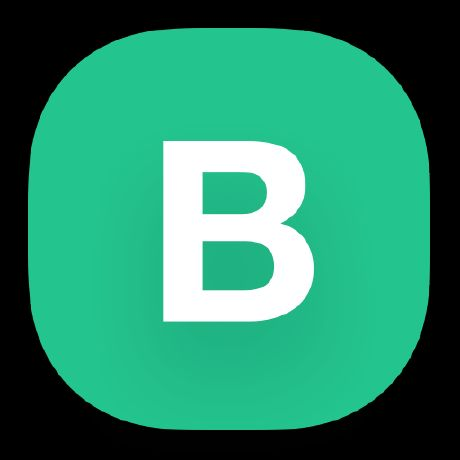
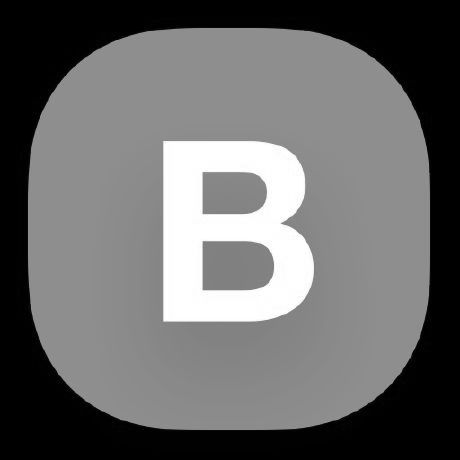
Agregado quien soy yo

diff --git a/index.html b/index.html
@@ -192,11 +192,14 @@
                 height="200"
                 loading="lazy"
               />
-              <p><strong>¿Quien es esta persona?</strong></p>
+              <p><strong>Me presento:</strong></p>
               <p>
-                Ingeniero Senior trabajando como desarrollador junior. <br />
-                Mentalidad creativa y analítica. Acostumbrado a trabajar <br />
-                en un ambiente multi-cultural y con edades diversas.
+                Ingeniero Senior trabajando como desarrollador Junior. <br />
+                Mentalidad creativa y analítica. Deseando trabajar <br />
+                en un ambiente multi-cultural y de diversas edades. <br>
+                Creando proyectos en Angular, JS y MDB. <br>
+                Estudiando - Practicando - Estudiando... <br>
+                Habitante de CABA - Argentina.
               </p>
 
               <!-- Linkedin -->
@@ -225,16 +228,16 @@
               <p><strong>Experiencia Proyectos (3+ año)</strong></p>
               <div class="row">
                 <div class="col-md-4 mb-4">
-                  <img src="img/C.jpg"
-                  class="rounded-circle m-2"
+                  <img src="img/c-logo-black-and-white-1.jpg"
+                  class="m-2"
                   height="50"
                   alt="C language"
                   loading="lazy"></img>
                   <p>Lenguaje C</p>
                 </div>
                 <div class="col-md-4 mb-4">
-                  <img src="img/arduino.jpg"
-                  class="rounded-circle m-2"
+                  <img src="img/arduino-BW.jpg"
+                  class="m-2"
                   height="50"
                   alt="Arduino"
                   loading="lazy"></img>
@@ -242,7 +245,7 @@
                 </div>
                 <div class="col-md-4 mb-4">
                   <img src="img/Blynk.jpg"
-                  class="rounded-circle m-2"
+                  class="m-2"
                   height="50"
                   alt="Blynk IoT"
                   loading="lazy"></img>
